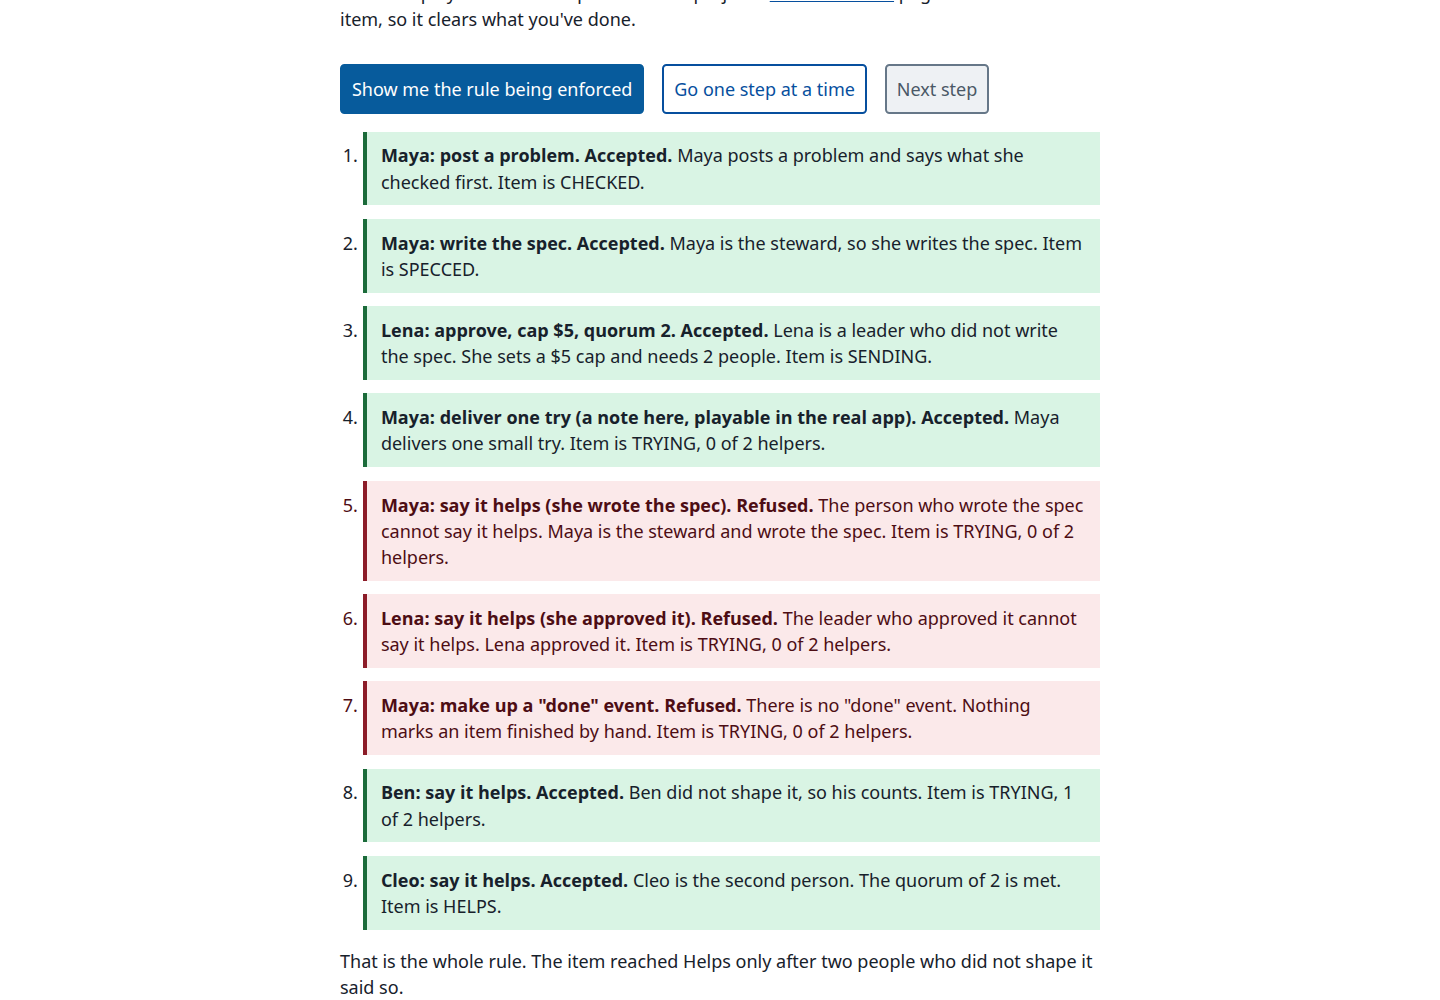
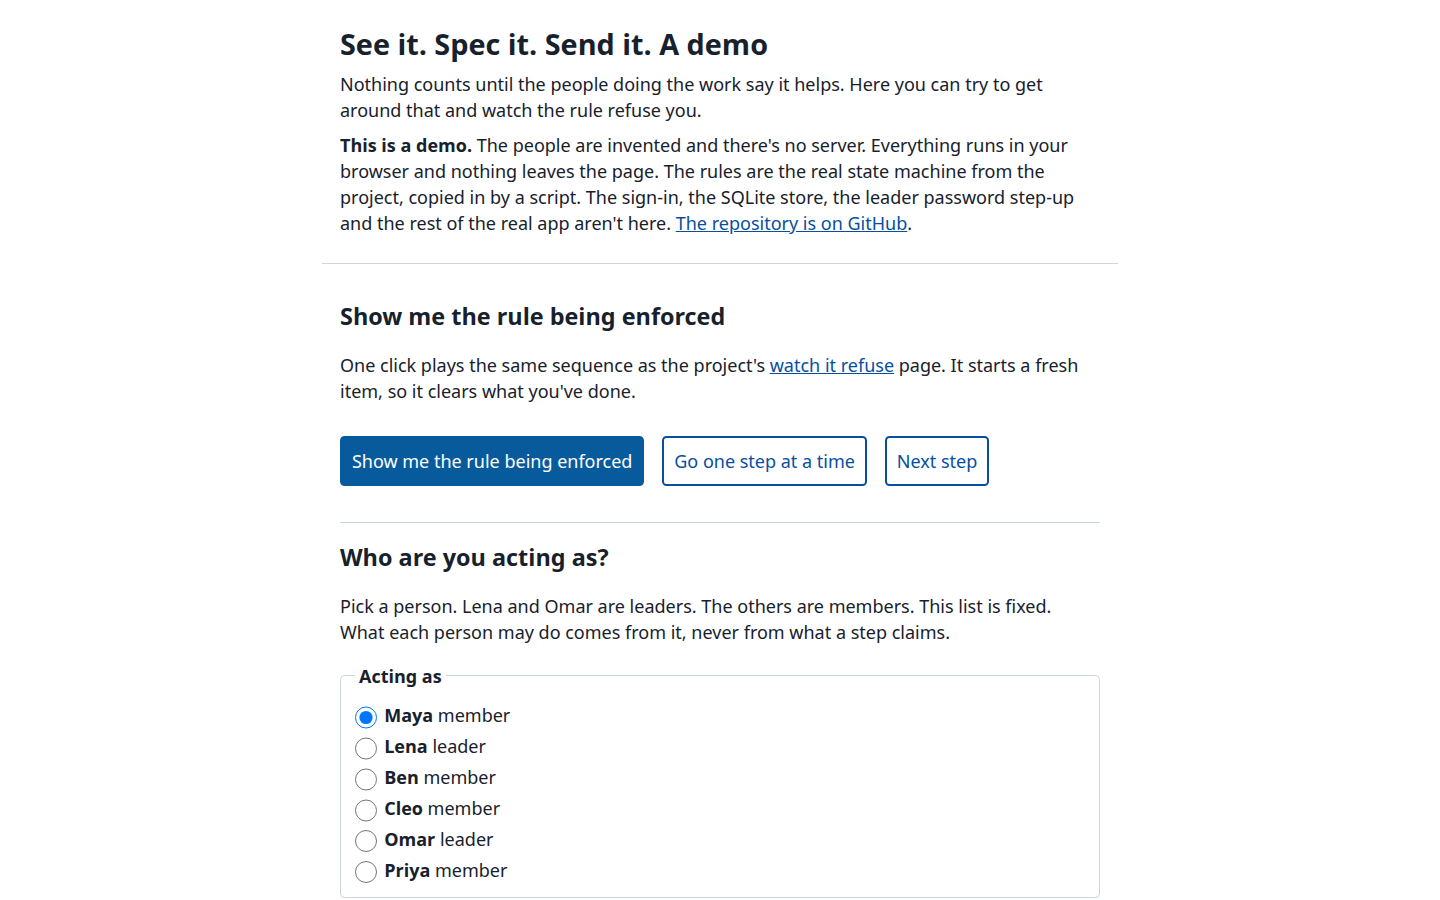
Fix the demo's stray 'null', a double-click race, and silent resets
The empty tour drew the text 'null' in a real browser. Two quick clicks on
the tour buttons ran two tours at once and threw errors. A damaged or edited
saved log was dropped without saying so, and saved try text wasn't checked
against its hash. Now the tour buttons lock while a tour runs, a thrown-away
save says so, try text is kept only if it matches its hash, saved logs and
sessions are capped at 200 steps, and the roster list is frozen. Visitor copy
uses contractions. New phone and desktop screenshots show the top of the page.

Changed region(s): [[0.2188, 0.0, 0.7812, 1.0]]

diff --git a/demo/app.js b/demo/app.js
@@ -1,14 +1,16 @@
 // Page wiring only. The rules live in lib/machine.js (a generated copy of core/machine.js).
 import { createLog, restoreLog } from './lib/log.js';
-import { createSession, perform, summary, checkKinds } from './lib/flow.js';
+import { createSession, perform, summary, checkKinds, restoreArtifacts } from './lib/flow.js';
 import { item, makeRoster } from './lib/roster.js';
 import { tourSteps, playStep } from './lib/tour.js';
 import { renderEvents, renderRefusals, renderResult, renderStatus, renderTour, renderWho } from './lib/render.js';
 
 const storageKey = 'sss-demo-v1';
 const $ = id => document.getElementById(id);
+let busy = false;
 const app = { session: null, current: 'maya', result: null, resultActor: 'maya', played: [] };
 
+const storeHadValue = () => { try { return localStorage.getItem(storageKey) !== null; } catch { return false; } };
 const store = {
   read() { try { return JSON.parse(localStorage.getItem(storageKey)); } catch { return null; } },
   write(value) { try { localStorage.setItem(storageKey, JSON.stringify(value)); } catch { /* storage off: stay in memory */ } },
@@ -32,10 +34,13 @@ function paint() {
   renderEvents(document, $('events'), app.session.log.rows());
   renderRefusals(document, $('refusals'), app.session.refusals);
   renderTour(document, $('tour-out'), app.played, tourSteps.length);
-  $('tour-next').disabled = app.played.length >= tourSteps.length;
+  $('tour-next').disabled = busy || app.played.length >= tourSteps.length;
+  $('tour-all').disabled = busy;
+  $('tour-start').disabled = busy;
 }
 
 async function act(action, input) {
+  if (busy) return;
   app.resultActor = app.current;
   app.result = await perform(app.session, app.current, action, input);
   save();
@@ -86,28 +91,31 @@ function wire() {
       ? `Event ${seq} was edited in memory. Press "Verify the chain" to see it caught.`
       : 'There are no events to edit yet.';
   });
-  $('reset').addEventListener('click', () => reset());
+  $('reset').addEventListener('click', () => { if (!busy) reset(); });
   $('persist').addEventListener('change', () => {
     if ($('persist').checked) save(); else store.clear();
   });
-  $('tour-start').addEventListener('click', async () => {
+  // The tour buttons are locked while a tour runs, so two clicks can't interleave two tours.
+  const locked = async work => {
+    if (busy) return;
+    busy = true; paint();
+    try { await work(); } finally { busy = false; save(); paint(); }
+  };
+  $('tour-start').addEventListener('click', () => locked(async () => {
     reset();
     app.played = [await playStep(app.session, 0)];
     app.result = null;
-    paint();
     $('tour-out').focus();
-  });
-  $('tour-next').addEventListener('click', async () => {
+  }));
+  $('tour-next').addEventListener('click', () => locked(async () => {
     if (!app.played.length) { reset(); }
     app.played.push(await playStep(app.session, app.played.length));
-    save(); paint();
-  });
-  $('tour-all').addEventListener('click', async () => {
+  }));
+  $('tour-all').addEventListener('click', () => locked(async () => {
     reset();
     for (let index = 0; index < tourSteps.length; index += 1) app.played.push(await playStep(app.session, index));
-    save(); paint();
     $('tour-out').focus();
-  });
+  }));
 }
 
 function reset() {
@@ -127,11 +135,15 @@ async function start() {
     const restored = await restoreLog(saved.log, { roster: app.session.roster, item });
     if (restored) {
       app.session.log = restored;
-      for (const [hash, text] of saved.artifacts ?? []) {
-        if (typeof hash === 'string' && typeof text === 'string') app.session.artifacts.set(hash, text);
-      }
+      app.session.artifacts = await restoreArtifacts(restored, saved.artifacts);
       $('persist').checked = true;
-    } else store.clear();
+    } else {
+      store.clear();
+      app.result = { status: 'note', message: "What this browser had saved didn't check out (it was damaged or edited), so it was thrown away. You're starting fresh." };
+    }
+  } else if (saved === null && storeHadValue()) {
+    store.clear();
+    app.result = { status: 'note', message: "What this browser had saved couldn't be read, so it was thrown away. You're starting fresh." };
   }
   wire();
   paint();

diff --git a/demo/lib/rules.js b/demo/lib/rules.js
@@ -8,18 +8,18 @@ const known = new Set(['checked', 'specced', 'approved', 'returned', 'charged', 
 const shortText = value => String(value ?? '').slice(0, 40);
 
 export const rules = {
-  'no-done-event': 'There is no "done" event. Nothing marks an item finished by hand.',
+  'no-done-event': "There's no \"done\" event. Nothing marks an item finished by hand.",
   'unknown-event': 'The machine has no event with that name.',
   finished: 'This item already reached Helps or was shelved. Those end the item.',
-  'no-try-yet': 'There is no try to confirm yet. "It helps" only counts on a delivered try.',
-  'approver-cannot-help': 'The leader who approved it cannot say it helps.',
-  'author-cannot-help': 'The person who wrote the spec cannot say it helps.',
-  'past-shaper-cannot-help': 'Anyone who has been steward, written a spec, or approved it cannot say it helps.',
+  'no-try-yet': "There's no try to confirm yet. \"It helps\" only counts on a delivered try.",
+  'approver-cannot-help': "The leader who approved it can't say it helps.",
+  'author-cannot-help': "The person who wrote the spec can't say it helps.",
+  'past-shaper-cannot-help': "Anyone who has been steward, written a spec, or approved it can't say it helps.",
   'stale-artifact': 'That "it helps" is for an older try. Only the current try counts.',
-  'wrong-stage': 'The item is not at the right stage for that.',
+  'wrong-stage': "The item isn't at the right stage for that.",
   'leaders-approve': 'Only a leader can approve.',
-  'steward-cannot-approve': 'A leader who is also the steward cannot approve their own spec.',
-  'stale-spec': 'That approval is for a spec that is not the current one.',
+  'steward-cannot-approve': "A leader who is also the steward can't approve their own spec.",
+  'stale-spec': "That approval is for a spec that isn't the current one.",
   'bad-budget': 'The cap and quorum have to be real numbers. The cap is money, the quorum is at least one person.',
   'only-steward-specs': 'Only the steward can write or change the spec.',
   'bad-spec': 'A spec needs a list of what it must do, an out-of-scope list, and at least one way to know it worked.',
@@ -28,7 +28,7 @@ export const rules = {
   'shelve-needs-leader-or-steward': 'Only a leader or the steward can shelve an item, and they need a reason.',
   'stale-approval': 'That build event belongs to an older approval. A new approval starts a new build.',
   'wrong-actor': 'Only the build run and cost gateway can send that kind of event.',
-  'not-allowed': 'The machine does not allow that event right now.',
+  'not-allowed': "The machine doesn't allow that event right now.",
 };
 
 const result = (rule, extra = '') => ({ rule, words: `${rules[rule]}${extra ? ` ${extra}` : ''}` });
@@ -52,7 +52,7 @@ export function explain(context, event, authority, refusal = 'event not allowed'
   }
   if (event.type === 'approved') {
     if (context.phase !== 'SPECCED') return result('wrong-stage', 'Approval comes after a spec and before a try.');
-    if (!leader) return result('leaders-approve', `${who} is not a leader.`);
+    if (!leader) return result('leaders-approve', `${who} isn't a leader.`);
     if (event.actor === context.steward) return result('steward-cannot-approve', `${who} wrote this spec.`);
     if (event.spec_hash !== context.specHash) return result('stale-spec');
     return result('bad-budget');
@@ -61,7 +61,7 @@ export function explain(context, event, authority, refusal = 'event not allowed'
     if (!['CHECKED', 'SPECCED', 'SENDING', 'TRYING'].includes(context.phase)) {
       return result('wrong-stage', 'Post and check a problem first.');
     }
-    if (!person || event.actor !== context.steward) return result('only-steward-specs', `${who} is not the steward.`);
+    if (!person || event.actor !== context.steward) return result('only-steward-specs', `${who} isn't the steward.`);
     return result('bad-spec');
   }
   if (event.type === 'checked') {

diff --git a/demo/lib/flow.js b/demo/lib/flow.js
@@ -4,12 +4,23 @@
 import { explain } from './rules.js';
 import { runToken } from './roster.js';
 
-export const limits = { problem: 500, note: 280, line: 200, lines: 8, text: 1000, reason: 200, quorumMax: 6 };
+export const limits = { problem: 500, note: 280, line: 200, lines: 8, text: 1000, reason: 200, quorumMax: 6, steps: 200 };
 export const checkKinds = ['have', 'pay_for', 'free', 'setting'];
 export const verdicts = ['build_needed', 'already_have', 'setting', 'free', 'pay'];
 export const stageLabels = {
   SEEN: 'See', CHECKED: 'Checked', SPECCED: 'Spec', SENDING: 'Send', TRYING: 'Send', HELPS: 'Helps', SHELVED: 'Shelved',
 };
+
+// Keeps saved try text only when it still matches the hash the chain recorded for it.
+export async function restoreArtifacts(log, saved) {
+  const kept = new Map();
+  if (!Array.isArray(saved)) return kept;
+  for (const entry of saved.slice(0, limits.steps)) {
+    if (!Array.isArray(entry) || typeof entry[0] !== 'string' || typeof entry[1] !== 'string') continue;
+    if (entry[1].length <= limits.text && await log.hashArtifact(entry[1]) === entry[0]) kept.set(entry[0], entry[1]);
+  }
+  return kept;
+}
 
 export function createSession({ log, roster }) {
   return { log, roster, attempts: 0, refusals: [], artifacts: new Map() };
@@ -62,7 +73,7 @@ const builders = {
   spec(input) {
     const must = parseLines(input.must, { name: 'What it must do' });
     if (must.error) return must;
-    const how = parseLines(input.how_we_know, { name: 'How we will know' });
+    const how = parseLines(input.how_we_know, { name: "How we'll know" });
     if (how.error) return how;
     const out = parseLines(input.out_of_scope, { name: 'Out of scope', required: false });
     if (out.error) return out;
@@ -94,6 +105,9 @@ export const actionNames = ['post', 'spec', 'approve', 'deliver', 'help', 'done'
 //   { status: 'refused', rule, words, state } the machine refused it, the log is unchanged
 export async function perform(session, who, action, input = {}) {
   if (!actionNames.includes(action)) return { status: 'invalid', message: 'Unknown action.' };
+  if (session.log.length >= limits.steps) {
+    return { status: 'invalid', message: `This session has ${limits.steps} steps. Press "Start over" to begin again.` };
+  }
   const before = session.log.replay();
   const context = before.context;
   let event;

diff --git a/demo/lib/render.js b/demo/lib/render.js
@@ -49,14 +49,16 @@ export function renderStatus(doc, root, view) {
 export function renderResult(doc, root, result, actor) {
   if (!result) { root.replaceChildren(); return; }
   const who = nameOf(actor);
-  if (result.status === 'invalid') {
+  if (result.status === 'note') {
+    root.replaceChildren(h(doc, 'p', { class: 'note' }, result.message));
+  } else if (result.status === 'invalid') {
     root.replaceChildren(h(doc, 'p', { class: 'note' }, 'Not sent. ', result.message));
   } else if (result.status === 'accepted') {
     root.replaceChildren(h(doc, 'p', { class: 'ok' }, h(doc, 'strong', {}, 'Accepted. '),
       `${who}'s step went through. The item is now ${result.state}.`));
   } else {
     root.replaceChildren(h(doc, 'div', { class: 'refused' },
-      h(doc, 'p', {}, h(doc, 'strong', {}, 'Refused. '), `${who}'s step did not go through. The log did not change.`),
+      h(doc, 'p', {}, h(doc, 'strong', {}, 'Refused. '), `${who}'s step didn't go through. The log didn't change.`),
       h(doc, 'p', {}, h(doc, 'strong', {}, 'Rule: '), result.words),
       h(doc, 'p', { class: 'small' }, `What the code said: ${result.machine}. Rule name: ${result.rule}.`)));
   }
@@ -86,8 +88,8 @@ export function renderTour(doc, root, played, total) {
       refused ? entry.outcome.words : entry.step.note,
       ` Item is ${entry.state.state}${progress}.`);
   });
-  root.replaceChildren(h(doc, 'ol', {}, items),
+  root.replaceChildren(...[h(doc, 'ol', {}, items),
     played.length === total
-      ? h(doc, 'p', {}, 'That is the whole rule. The item reached Helps only after two people who did not shape it said so.')
-      : null);
+      ? h(doc, 'p', {}, "That's the whole rule. The item reached Helps only after two people who didn't shape it said so.")
+      : null].filter(Boolean));
 }

diff --git a/demo/index.html b/demo/index.html
@@ -13,7 +13,7 @@
 <header>
   <h1>See it. Spec it. Send it. A demo</h1>
   <p class="lead">Nothing counts until the people doing the work say it helps. Here you can try to get around that and watch the rule refuse you.</p>
-  <p class="honest"><strong>This is a demo.</strong> The people are invented and there's no server. Everything runs in your browser and nothing leaves the page. The rules are the real state machine from the project, copied in by a script. The sign-in, the SQLite store, the leader password step-up and the rest of the real app are not here. <a href="https://github.com/stevenammer/see-spec-send">The repository is on GitHub</a>.</p>
+  <p class="honest"><strong>This is a demo.</strong> The people are invented and there's no server. Everything runs in your browser and nothing leaves the page. The rules are the real state machine from the project, copied in by a script. The sign-in, the SQLite store, the leader password step-up and the rest of the real app aren't here. <a href="https://github.com/stevenammer/see-spec-send">The repository is on GitHub</a>.</p>
   <noscript><p class="refused">This demo needs JavaScript and a static file server. It can't run from a file:// address.</p></noscript>
 </header>
 <main>

diff --git a/demo/lib/tour.js b/demo/lib/tour.js
@@ -12,7 +12,7 @@ export const tourSteps = [
     note: 'Maya is the steward, so she writes the spec.' },
   { who: 'lena', label: 'approve, cap $5, quorum 2', action: 'approve', expect: 'accepted',
     input: { cap: '5', quorum: '2' },
-    note: 'Lena is a leader who did not write the spec. She sets a $5 cap and needs 2 people.' },
+    note: "Lena is a leader who didn't write the spec. She sets a $5 cap and needs 2 people." },
   { who: 'maya', label: 'deliver one try (a note here, playable in the real app)', action: 'deliver', expect: 'accepted',
     input: { text: 'One page that lists each refund once.' },
     note: 'Maya delivers one small try.' },
@@ -23,7 +23,7 @@ export const tourSteps = [
   { who: 'maya', label: 'make up a "done" event', action: 'done', expect: 'refused',
     note: 'Someone tries to mark it done.' },
   { who: 'ben', label: 'say it helps', action: 'help', expect: 'accepted',
-    note: 'Ben did not shape it, so his counts.' },
+    note: "Ben didn't shape it, so his counts." },
   { who: 'cleo', label: 'say it helps', action: 'help', expect: 'accepted',
     note: 'Cleo is the second person. The quorum of 2 is met.' },
 ];

diff --git a/demo/lib/roster.js b/demo/lib/roster.js
@@ -2,14 +2,14 @@
 // An event never says what its author may do. The log looks the actor up.
 export const item = 'item-1';
 
-export const people = [
+export const people = Object.freeze([
   { id: 'maya', name: 'Maya', leader: false, note: 'member' },
   { id: 'lena', name: 'Lena', leader: true, note: 'leader' },
   { id: 'ben', name: 'Ben', leader: false, note: 'member' },
   { id: 'cleo', name: 'Cleo', leader: false, note: 'member' },
   { id: 'omar', name: 'Omar', leader: true, note: 'leader' },
   { id: 'priya', name: 'Priya', leader: false, note: 'member' },
-];
+].map(person => Object.freeze(person)));
 
 export const runToken = 'run-1';
 

diff --git a/demo/lib/log.js b/demo/lib/log.js
@@ -132,7 +132,7 @@ export function createLog({ roster, item, now = () => new Date().toISOString(),
 
 // Restore saved rows. They are only accepted if the chain verifies, so a hand-edited save is dropped.
 export async function restoreLog(saved, options) {
-  if (!saved || saved.item !== options.item || !Array.isArray(saved.rows)) return null;
+  if (!saved || saved.item !== options.item || !Array.isArray(saved.rows) || saved.rows.length > 200) return null;
   const fresh = createLog(options);
   // Rebuild through the real append path: same events, same idempotency keys, same timestamps.
   try {
